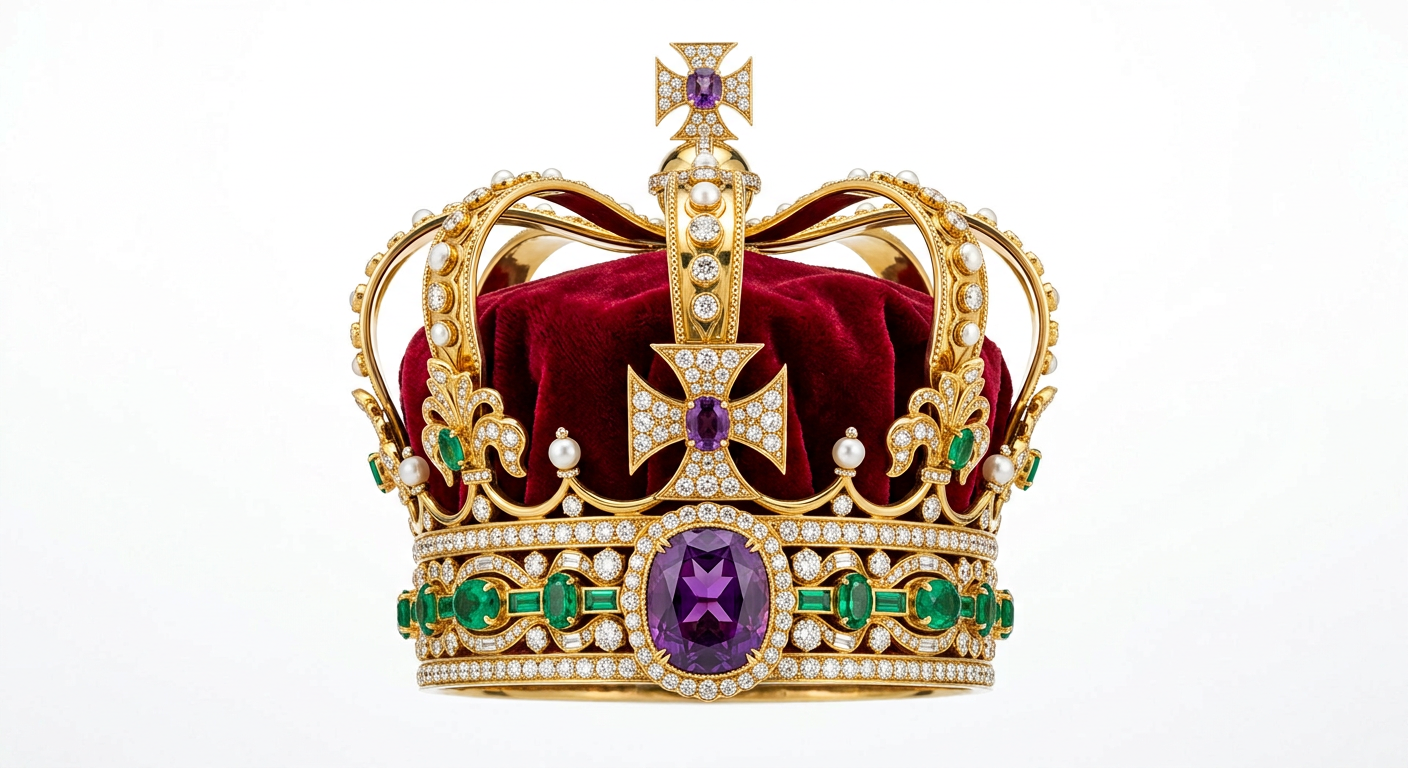
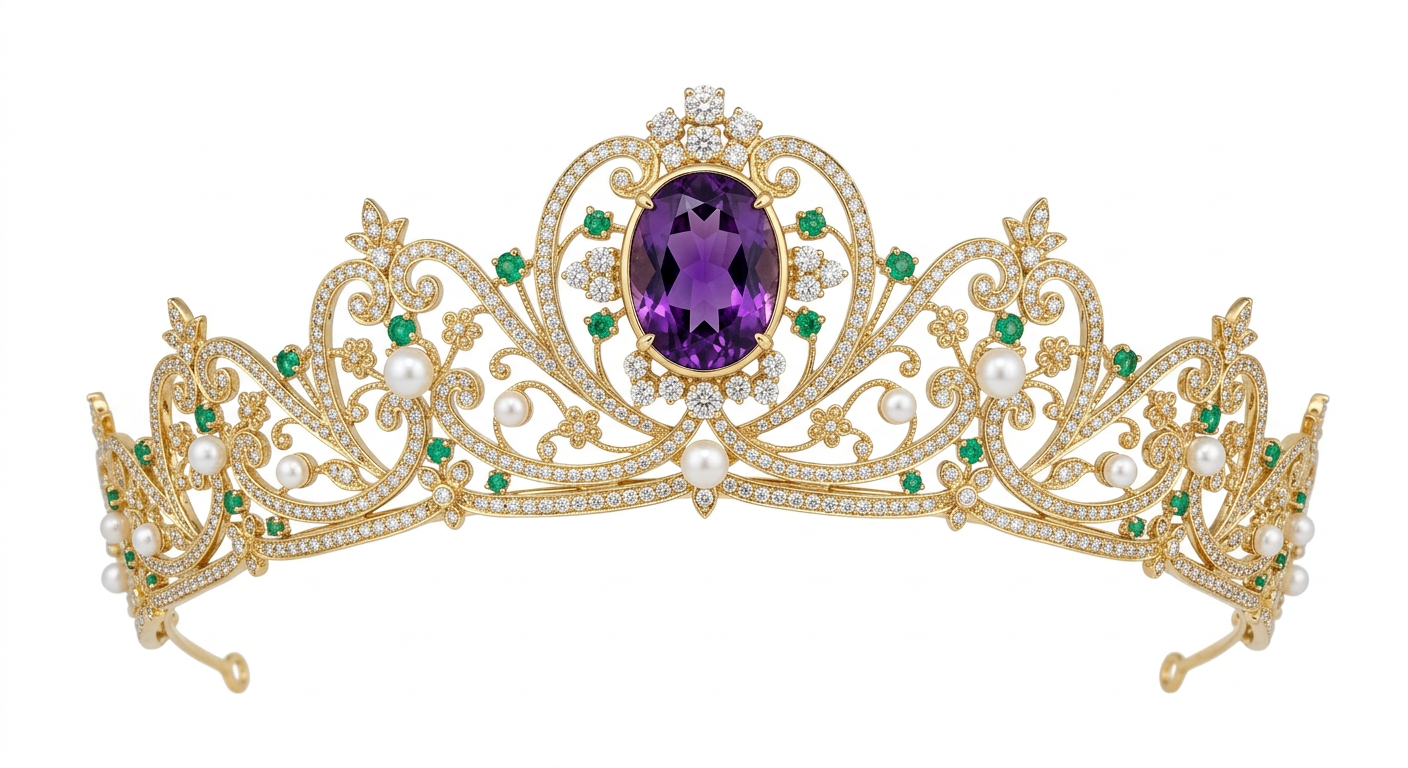
Feminine amethyst tiara, neon purple heart frame fixed, real licensed love song

diff --git a/index.html b/index.html
@@ -141,18 +141,18 @@
   .cell span{font-size:clamp(11px,1.7vw,14px);letter-spacing:2px;color:#d5b3ff;text-transform:uppercase}
 
   /* heart frame for her photo / video */
-  .heartwrap{position:relative;width:min(72vw,330px);margin:0 auto;padding-top:8px;cursor:pointer}
-  .heartborder{position:absolute;left:0;right:0;top:8px;bottom:34px;
-    background:linear-gradient(120deg,#ffd88a,#b06ef0,#ff8fd6,#ffd88a);background-size:300% 300%;
-    clip-path:url(#heartClip);animation:borderFlow 6s ease infinite;
-    filter:drop-shadow(0 0 18px rgba(200,120,255,.55))}
-  .heartframe{position:absolute;left:2%;right:2%;top:calc(8px + 2%);bottom:calc(34px + 2%);
-    clip-path:url(#heartClip);overflow:hidden;background:rgba(25,8,48,.55)}
-  .heartframe img,.heartframe video{width:100%;height:100%;object-fit:cover;display:block}
+  .heartwrap{position:relative;width:min(84vw,440px);aspect-ratio:1;margin:0 auto;cursor:pointer}
+  .heartborder{position:absolute;inset:0;
+    background:linear-gradient(120deg,#e793ff,#8a2bff,#c44dff,#e793ff);background-size:300% 300%;
+    clip-path:url(#heartClip);animation:borderFlow 5s ease infinite,neon 2.4s ease-in-out infinite alternate}
+  @keyframes neon{from{filter:drop-shadow(0 0 8px rgba(196,90,255,.9)) drop-shadow(0 0 22px rgba(150,40,255,.55))}
+    to{filter:drop-shadow(0 0 14px rgba(220,140,255,1)) drop-shadow(0 0 42px rgba(160,50,255,.8))}}
+  .heartframe{position:absolute;inset:2.2%;clip-path:url(#heartClip);overflow:hidden;background:rgba(25,8,48,.55)}
+  .heartframe img,.heartframe video{width:100%;height:100%;object-fit:cover;object-position:50% 35%;display:block}
   .heartfallback{position:absolute;inset:0;display:flex;align-items:center;justify-content:center;
     background:radial-gradient(circle at 50% 38%,rgba(150,80,220,.5),rgba(30,10,55,.7))}
-  .heartcap{margin-top:10px;font-style:italic;color:#ffe1f7;font-size:clamp(16px,2.6vw,20px);
-    text-shadow:0 2px 12px rgba(15,3,35,.85)}
+  .heartcap{position:absolute;left:0;right:0;top:100%;margin-top:18px;font-style:italic;color:#ffe1f7;
+    font-size:clamp(16px,2.6vw,20px);text-shadow:0 2px 12px rgba(15,3,35,.85)}
 
   /* sky tip bubble */
   #skyTip{position:fixed;top:76px;left:16px;z-index:29;max-width:200px;pointer-events:none;
@@ -304,7 +304,8 @@
   <footer class="reveal">
     Every butterfly on this page flies for you, Baby 🦋<br>
     Every flower blooms because of you 🌸<br>
-    Made with all my heart, for Gheefted — my Baby 👑💜
+    Made with all my heart, for Gheefted — my Baby 👑💜<br>
+    <span style="font-size:12px;opacity:.75">🎹 “There is Romance” — Kevin MacLeod (incompetech.com) · CC BY 3.0</span>
   </footer>
 </div>
 
@@ -695,6 +696,7 @@ function initAudio(){
   AC=new (window.AudioContext||window.webkitAudioContext)();
   master=AC.createGain();master.gain.value=0;master.connect(AC.destination);
   bus=AC.createGain();bus.gain.value=1;bus.connect(master);
+  scoreG=AC.createGain();scoreG.connect(bus);
   const dly=AC.createDelay(1);dly.delayTime.value=.42;      /* dreamy echo */
   const fb=AC.createGain();fb.gain.value=.34;
   const wet=AC.createGain();wet.gain.value=.4;
@@ -707,7 +709,7 @@ function noiseBuf(){
   return b;
 }
 /* --- romantic score: piano waltz + strings, with reverb --- */
-let verb=null;
+let verb=null,scoreG=null;
 function makeVerb(){
   const len=Math.floor(AC.sampleRate*2.4);
   const buf=AC.createBuffer(2,len,AC.sampleRate);
@@ -737,7 +739,7 @@ function piano(f,t,dur,vel){
     g.gain.setValueAtTime(0,t);
     g.gain.linearRampToValueAtTime(vel*a,t+.008);
     g.gain.exponentialRampToValueAtTime(.0001,t+Math.max(.5,dur*1.1));
-    o.connect(g);g.connect(bus);o.start(t);o.stop(t+dur*1.2+.1);
+    o.connect(g);g.connect(scoreG);o.start(t);o.stop(t+dur*1.2+.1);
   });
 }
 function strings(ch,t,dur){
@@ -749,7 +751,7 @@ function strings(ch,t,dur){
       g.gain.setValueAtTime(0,t);
       g.gain.linearRampToValueAtTime(.012,t+1.1);
       g.gain.linearRampToValueAtTime(0,t+dur+.8);
-      o.connect(lp);lp.connect(g);g.connect(bus);
+      o.connect(lp);lp.connect(g);g.connect(scoreG);
       o.start(t);o.stop(t+dur+1);
     });
   });
@@ -819,12 +821,30 @@ function rustle(){
   }
   setTimeout(rustle,rnd(4000,9000));
 }
+const SONG_URL='https://incompetech.com/music/royalty-free/mp3-royaltyfree/There%20is%20Romance.mp3';
+let songEl=null,useSong=false,songTried=false;
+function trySong(){
+  if(songTried)return;songTried=true;
+  songEl=new Audio();
+  songEl.loop=true;songEl.volume=.8;
+  const srcs=['song.mp3','assets/song.mp3',SONG_URL];
+  let i=0;
+  songEl.addEventListener('error',()=>{i++;if(i<srcs.length){songEl.src=srcs[i];songEl.load();tryPlay();}else songEl=null;});
+  songEl.src=srcs[0];
+}
+function tryPlay(){
+  if(!songEl)return;
+  songEl.play().then(()=>{
+    useSong=true;
+    if(scoreG)scoreG.gain.linearRampToValueAtTime(0,AC.currentTime+1.5);
+  }).catch(()=>{});
+}
 function startSound(){
   if(soundReady)return;soundReady=true;
   initAudio();
   AC.resume().then(()=>{
     master.gain.linearRampToValueAtTime(.9,AC.currentTime+2.5);
-    makeVerb();scheduleLoop();
+    trySong();tryPlay();makeVerb();scheduleLoop();
     breeze();setTimeout(bird,1500);setTimeout(rustle,3000);
     const mb=document.getElementById('musicBtn');
     mb.classList.add('on');mb.textContent='\u{1F3B6}';
@@ -834,6 +854,7 @@ startSound(); /* tries immediately; browsers unlock it on her first tap */
 window.addEventListener('pointerdown',()=>{
   if(soundOn&&!soundReady)startSound();
   else if(AC&&AC.state==='suspended')AC.resume();
+  if(soundOn)tryPlay();
 });
 document.getElementById('musicBtn').addEventListener('click',function(){
   soundOn=!soundOn;
@@ -841,9 +862,10 @@ document.getElementById('musicBtn').addEventListener('click',function(){
   this.textContent=soundOn?'\u{1F3B6}':'\u{1F3B5}';
   if(soundOn){
     if(!soundReady)startSound();
-    else{AC.resume();master.gain.linearRampToValueAtTime(.9,AC.currentTime+1);}
-  }else if(AC){
-    master.gain.linearRampToValueAtTime(0,AC.currentTime+.8);
+    else{AC.resume();master.gain.linearRampToValueAtTime(.9,AC.currentTime+1);tryPlay();}
+  }else{
+    if(AC)master.gain.linearRampToValueAtTime(0,AC.currentTime+.8);
+    if(songEl)songEl.pause();
   }
 });
 </script>

diff --git a/README.md b/README.md
@@ -35,7 +35,11 @@ The heart frame looks for these files (root of the repo first, then `assets/`):
 
 Until a file exists, the heart shows a beating 💜.
 
-## Personalize
+## Your own real song 🎵
+The page plays a real licensed piano love song ("There is Romance" — Kevin
+MacLeod, CC BY 3.0) together with the garden nature sounds.
+Want **your** song instead? Upload it as `song.mp3` to the repo root (same
+Add file → Upload files trick) and it takes over automatically.
 - **Start date** (for the live counter): open `index.html`, find
   `const ANNIVERSARY = new Date('2024-08-15T00:00:00');` near the top of the
   `<script>` and change it to your real date.
